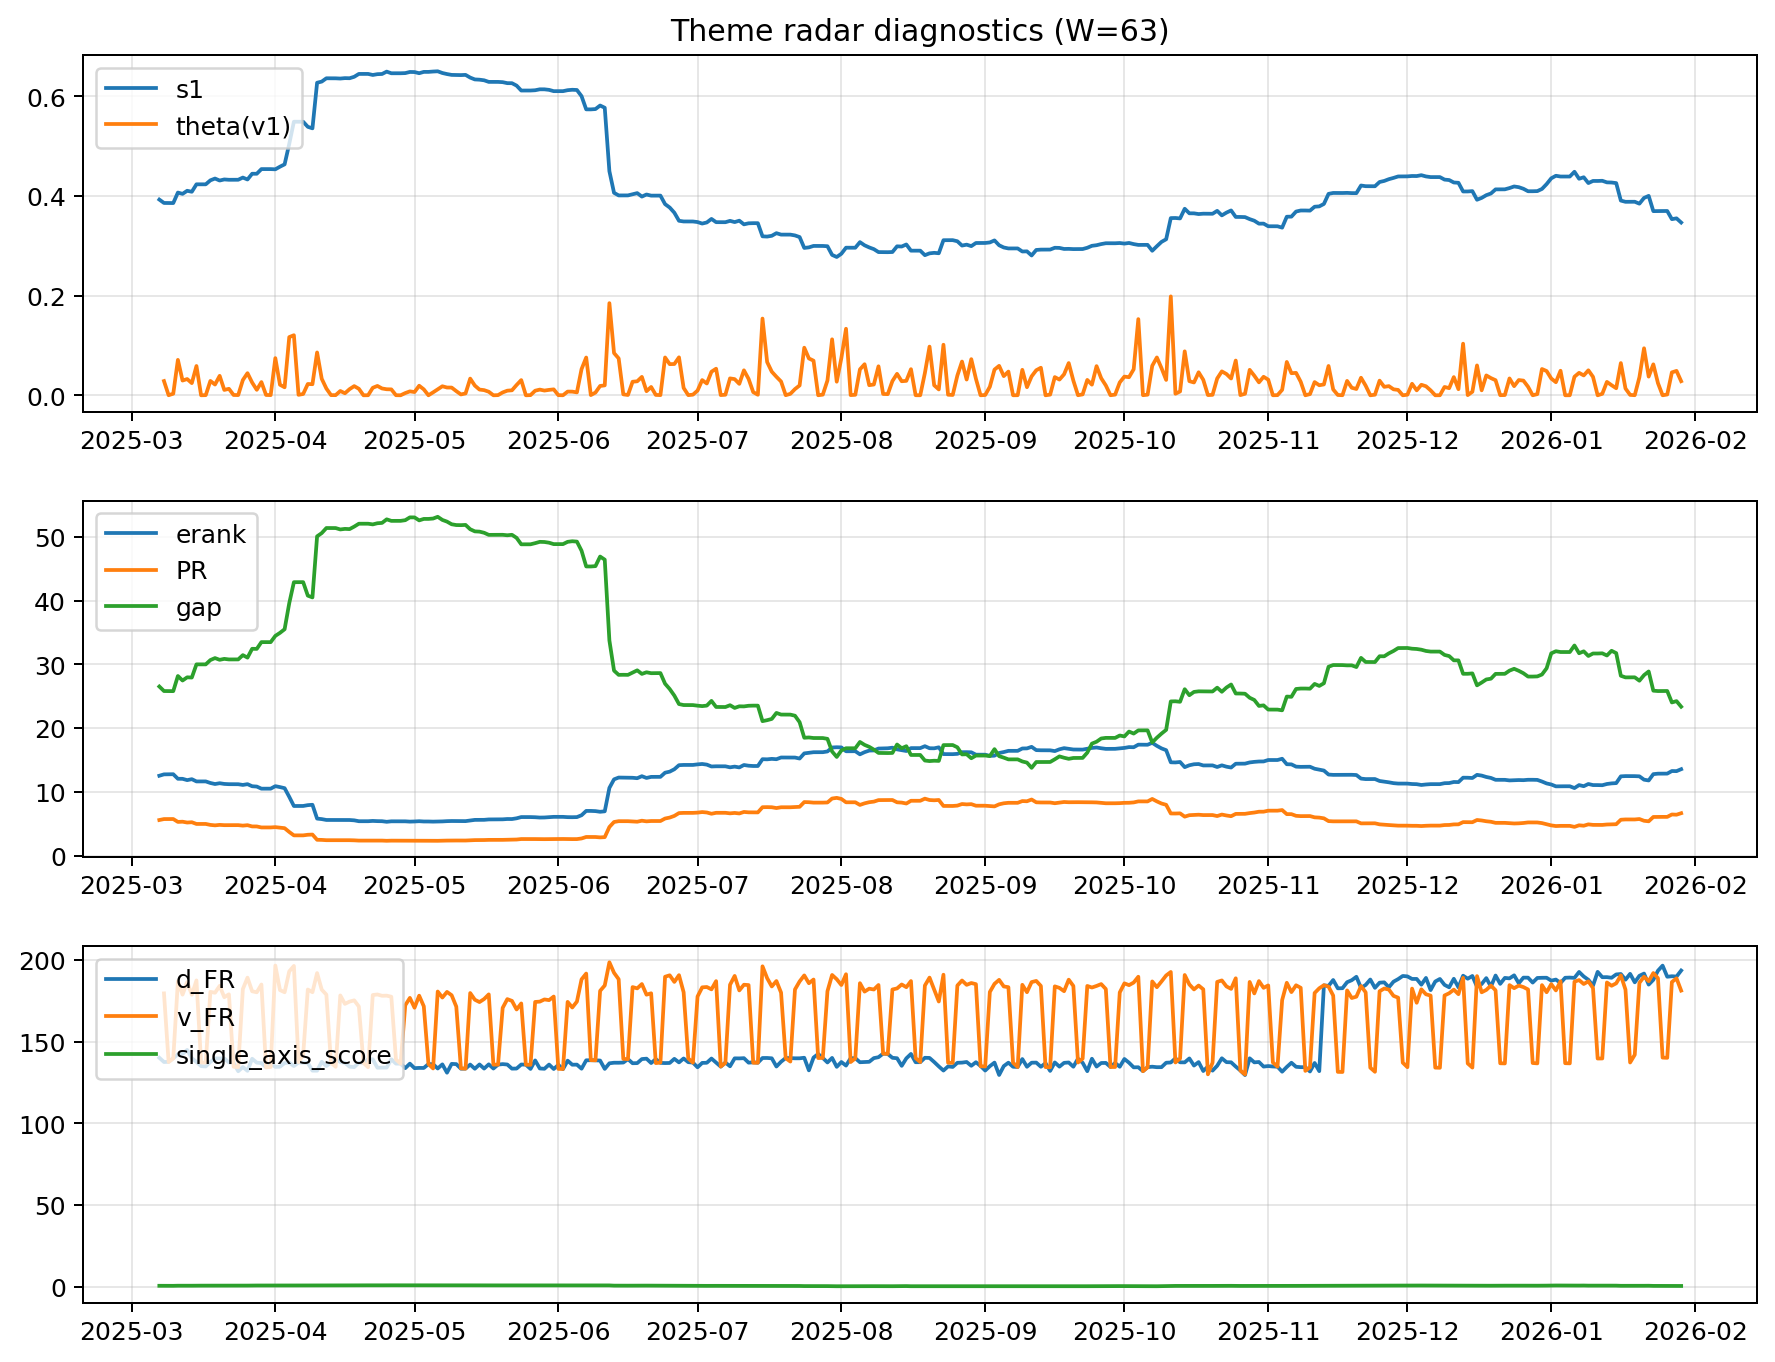
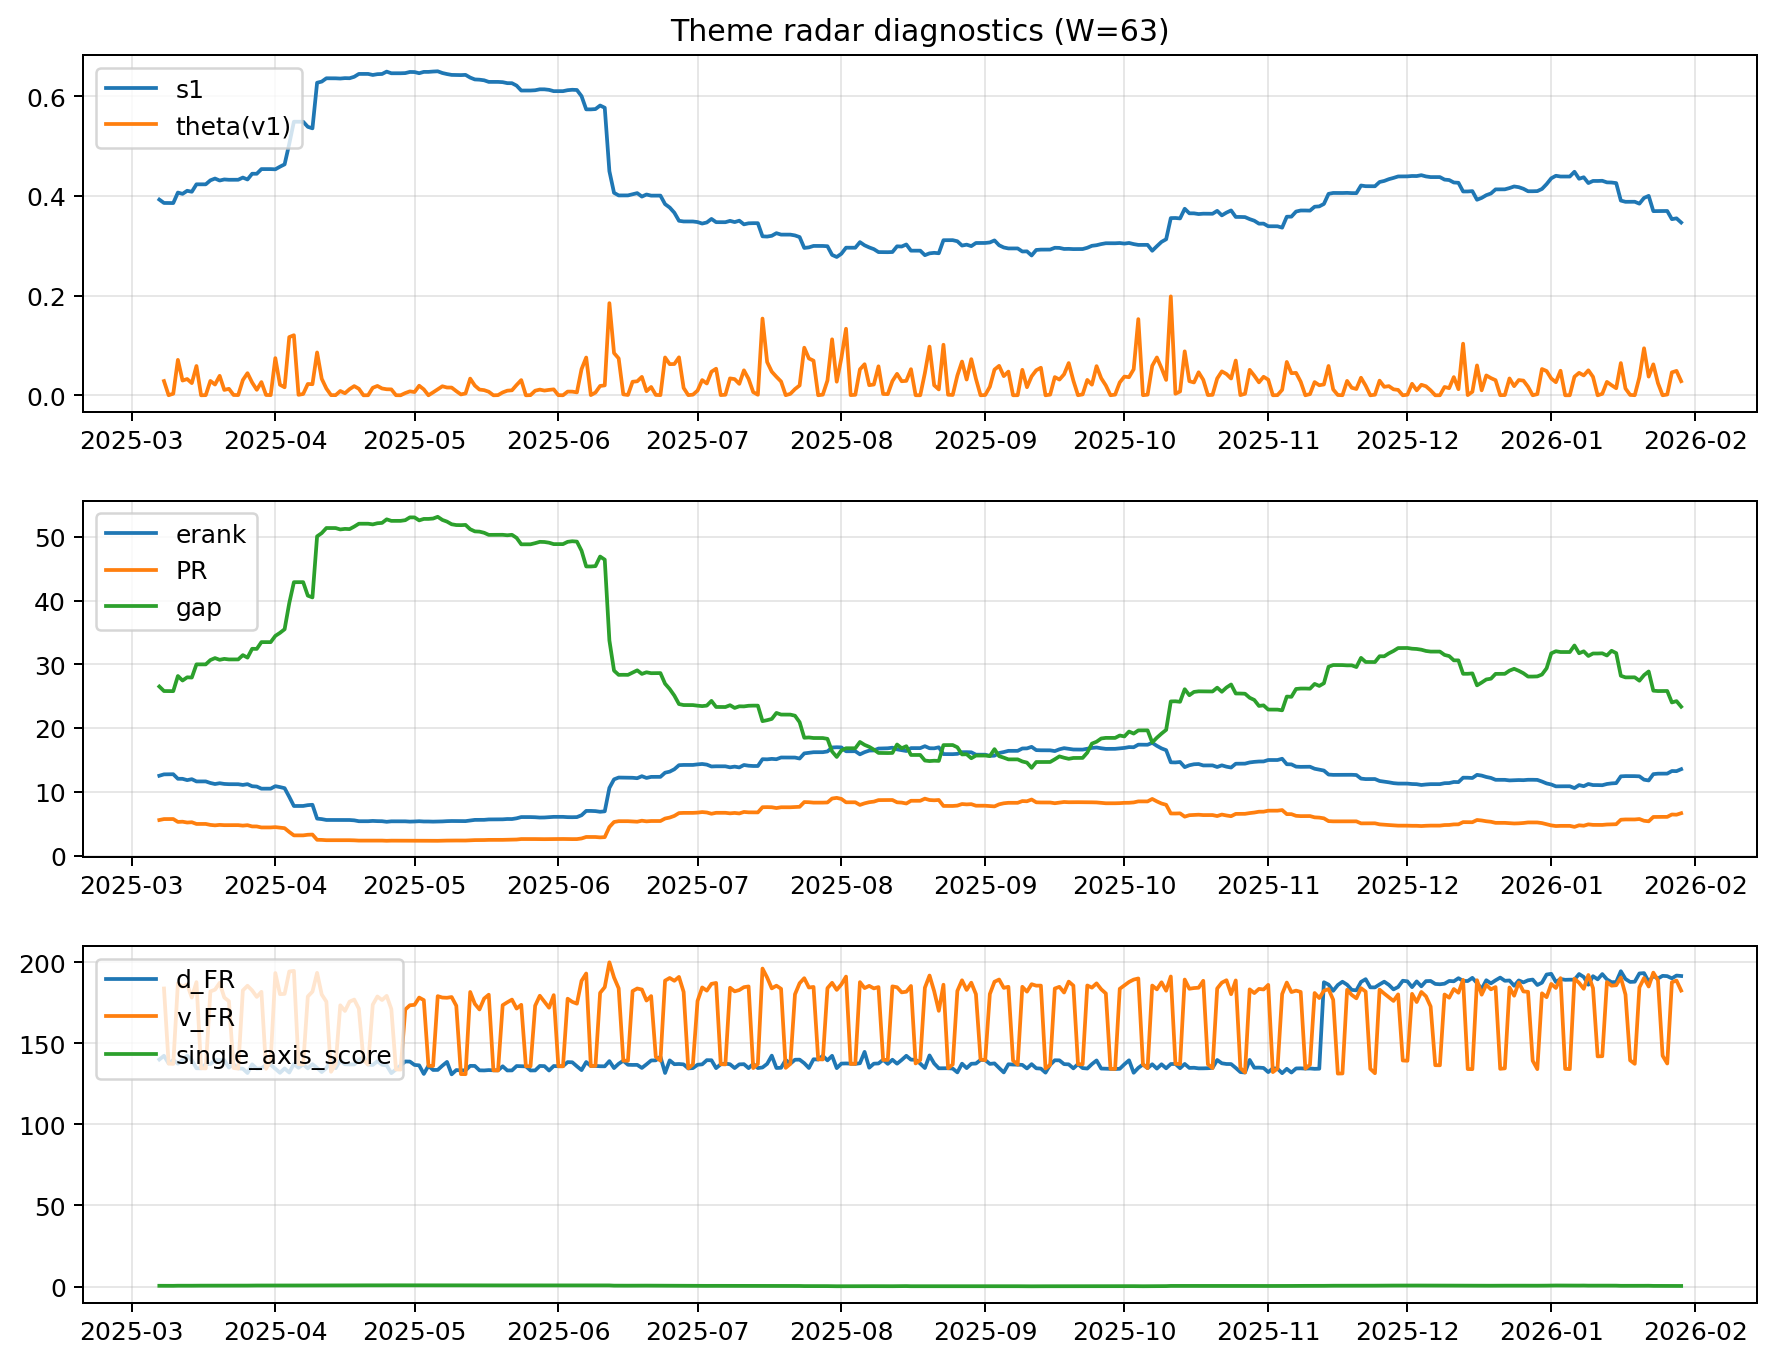
log: 2026-01-29 | sha256:50ba076f2c31a17d4c5250f9c585701e1505231073b8eda2a2b21383de304e46

Changed region(s): [[0.2169, 0.7093, 0.9606, 0.8018], [0.1549, 0.7709, 0.1859, 0.8018], [0.093, 0.7709, 0.1239, 0.8018]]

diff --git a/logs/2026-01-29.md b/logs/2026-01-29.md
@@ -3,43 +3,43 @@
 ![diagnostic W63](../assets/diagnostic/2026-01-29_W63.png)
 
 ## Leaders (v1) — W=63
-- **Nuclear_Uranium** (0.0863786538198102)
-- Semis (0.0739124836830282)
-- Grid_Power (0.0610041328310549)
+- **Nuclear_Uranium** (0.0863786357403272)
+- Semis (0.0739124687774395)
+- Grid_Power (0.0610041239592446)
 
 ## Challengers — W=63
-**v2:** Rates (0.0834569702297116), MegaCap_AI (0.0793846534105294), Nuclear_Uranium (0.0782060823748332)
-**v3:** Quantum (0.0902948982452991), Metals (0.080427565984358), Rates (0.0639601290087326)
+**v2:** Rates (0.0834568650605989), MegaCap_AI (0.0793846375453936), Nuclear_Uranium (0.0782060618720704)
+**v3:** Quantum (0.0902949496933223), Metals (0.0804274798289415), Rates (0.0639602254252386)
 
 ## Migration (20D slope) — W=63
 **Top risers:**
-- axis_Rates: 0.000713074693259
-- axis_Semis: 0.0004229349259414
-- axis_Credit: 0.0002863677824396
-- axis_Equity_ExUS: 0.0001895517365934
-- axis_Equity_US: 0.000179176155616
-- axis_Robotics: 0.0001676455830484
-- axis_Nuclear_Uranium: 0.0001544618467213
-- axis_Grid_Power: 0.000135797604122
-- axis_Clean_Wind: 9.857263708024274e-05
-- axis_Sector_Ind: 8.527428357165697e-05
+- axis_Rates: 0.0007130710207257
+- axis_Semis: 0.000422934997801
+- axis_Credit: 0.0002863668481986
+- axis_Equity_ExUS: 0.0001895518816651
+- axis_Equity_US: 0.0001791762577235
+- axis_Robotics: 0.0001676456446015
+- axis_Nuclear_Uranium: 0.0001544622080732
+- axis_Grid_Power: 0.000135797772548
+- axis_Clean_Wind: 9.857267986661668e-05
+- axis_Sector_Ind: 8.527431963218621e-05
 
 **Top fallers:**
-- axis_Sector_ConsDisc: -4.9399665569106826e-05
-- axis_Sector_Comm: -5.532967440971815e-05
-- axis_Cyber: -9.124185554604364e-05
-- axis_USD: -0.000125465327238
-- axis_Drones_Autonomy: -0.0001473899420736
-- axis_Commodities: -0.0001478152696645
-- axis_Quantum: -0.0002206354656997
-- axis_Software_Cloud: -0.0005403677980088
-- axis_Miners: -0.0005838352038907
-- axis_Metals: -0.0009205524408546
+- axis_Sector_ConsDisc: -4.939965515172989e-05
+- axis_Sector_Comm: -5.532970840500163e-05
+- axis_Cyber: -9.12416413262734e-05
+- axis_USD: -0.0001254653607412
+- axis_Drones_Autonomy: -0.000147389806583
+- axis_Commodities: -0.0001478149587455
+- axis_Quantum: -0.0002206352773748
+- axis_Software_Cloud: -0.0005403674626022
+- axis_Miners: -0.0005838349005746
+- axis_Metals: -0.0009205520901001
 
 ## Risk line (W=63)
-- s1: 0.3465686560684133
-- theta_v1: 0.0282697964870152
-- v_FR: 181.19415950502133
+- s1: 0.3465686839728115
+- theta_v1: 0.0282697442322408
+- v_FR: 182.52354178507957
 - single_axis_score: 0.382370820668693
 
 ## Interpretation
@@ -48,7 +48,7 @@
 - Action: Tomorrow watchlist: Rates, Semis, Credit, Equity_ExUS, Equity_US + v2_top1=Rates
 - Action: Hedge note: normal correlation stability.
 
-- Percentiles (W=63 history): vfr_pct=0.54, theta_pct=0.61, s1_pct=0.30, score_pct=0.27.
+- Percentiles (W=63 history): vfr_pct=0.60, theta_pct=0.61, s1_pct=0.30, score_pct=0.27.
 
 ---
[2 lines of base64/hex data omitted]
